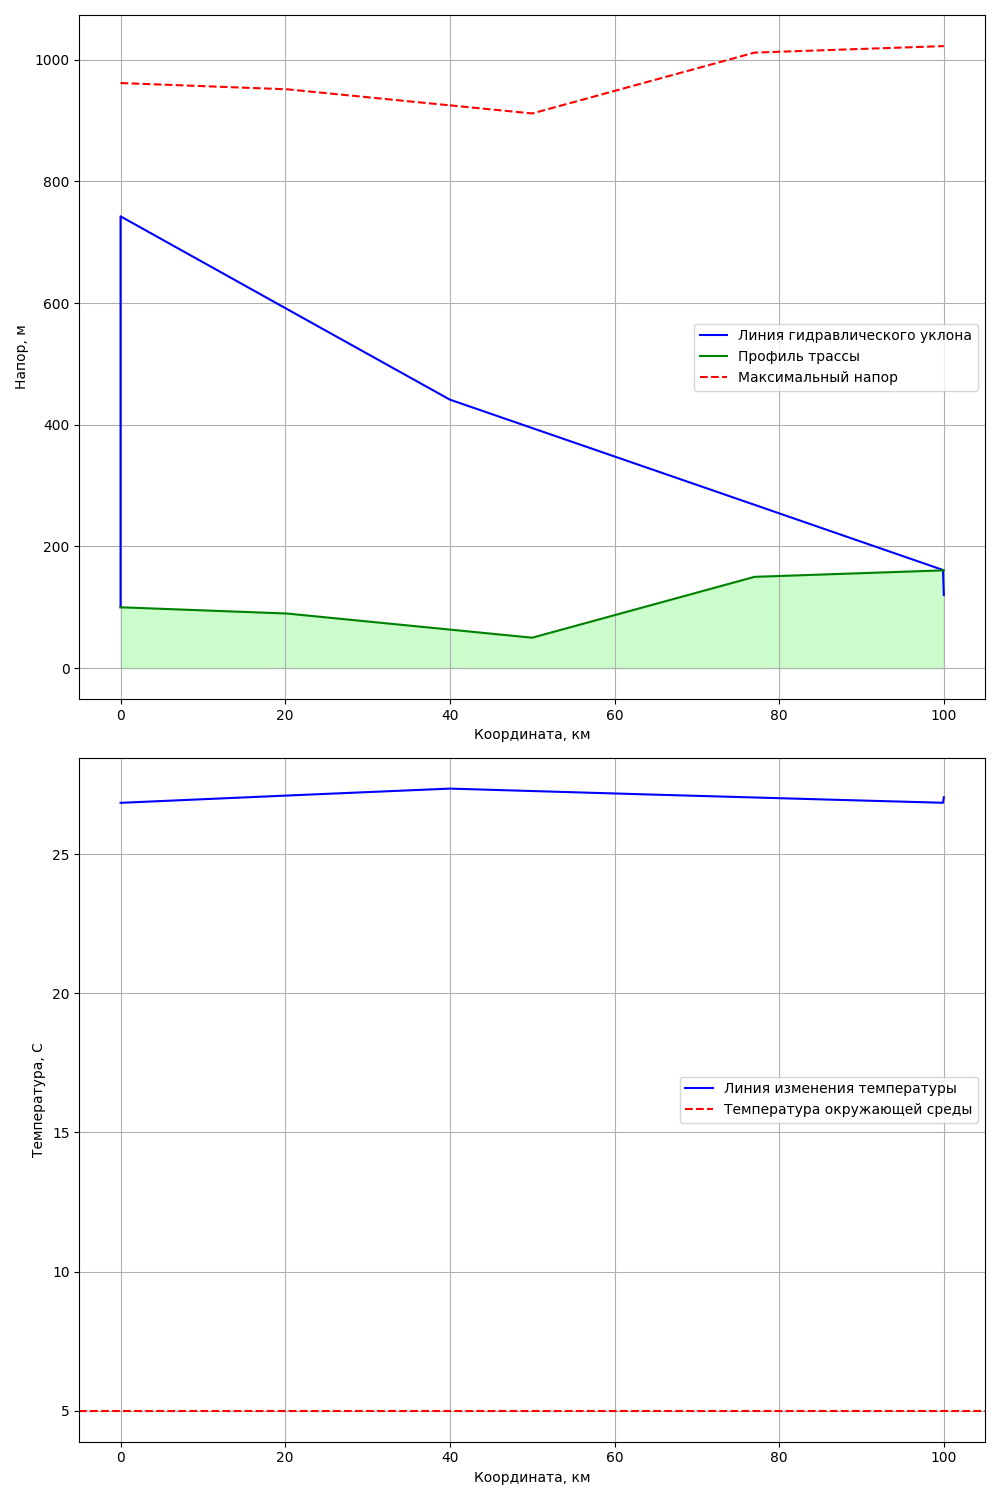
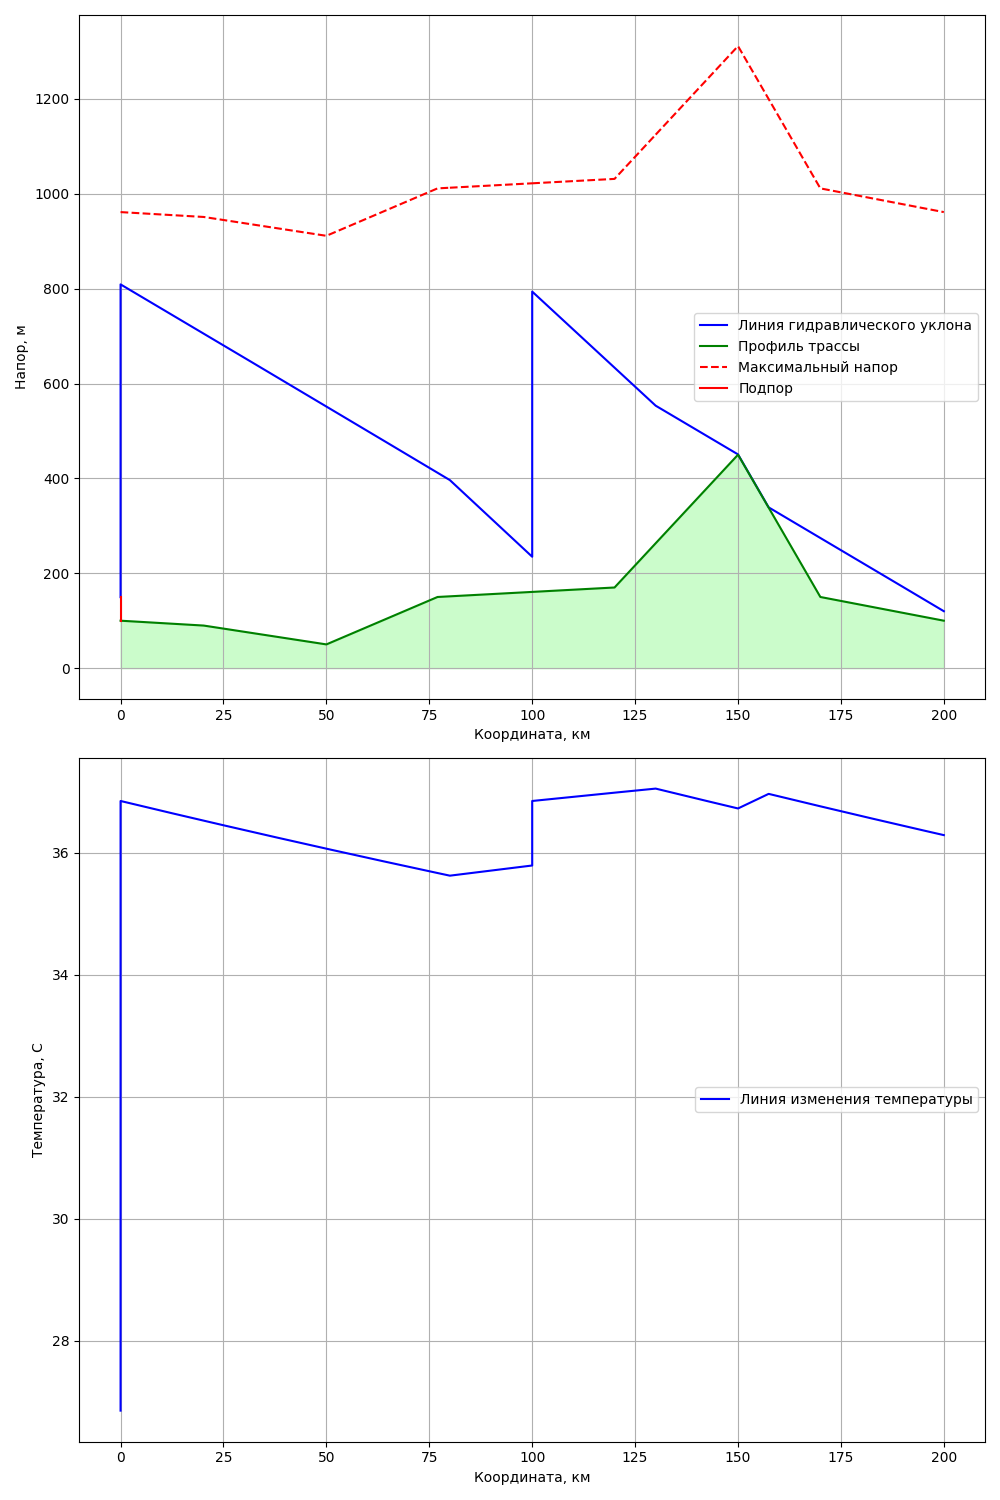
refactor

diff --git a/src/plotter.py b/src/plotter.py
@@ -18,7 +18,6 @@ class Plotter:
 
     def plot(self) -> plt.Figure:
         coordinate_data, head_data, elevation_data, temperature_data, head_max_data = self._get_plot_data()
-        head_data[0] = elevation_data[0]
         coordinate_data = np.array(coordinate_data) / 1e3
         temperature_data = np.array(temperature_data) - 273.15
 
@@ -29,6 +28,10 @@ class Plotter:
         axs[0].plot(coordinate_data, head_data, label='Линия гидравлического уклона', color='blue')
         axs[0].plot(coordinate_data, elevation_data, label='Профиль трассы', color='green')
         axs[0].plot(coordinate_data, head_max_data, label='Максимальный напор', color='red', linestyle='--')
+        axs[0].plot(
+            (coordinate_data[0], coordinate_data[0]),
+            (elevation_data[0], self._inlet_head),
+            label='Подпор', color='red')
         axs[0].legend(loc='right')
         axs[0].fill_between(coordinate_data, elevation_data, color='#98FB98', alpha=0.5)  # alpha задает прозрачность
 
@@ -37,8 +40,8 @@ class Plotter:
         axs[0].grid(True)
 
         axs[1].plot(coordinate_data, temperature_data, label='Линия изменения температуры', color='blue')
-        if self._temperature_env:
-            axs[1].axhline(y=self._temperature_env - 273.15, color='red', linestyle='--', label='Температура окружающей среды')
+        # if self._temperature_env:
+        #     axs[1].axhline(y=self._temperature_env - 273.15, color='red', linestyle='--', label='Температура окружающей среды')
         axs[1].legend(loc='right')
         axs[1].set_xlabel('Координата, км')
         axs[1].set_ylabel('Температура, С')

diff --git a/main.py b/main.py
@@ -9,10 +9,6 @@ from src.solver import Solver
 
 def main():
     interpolator = get_interpolator()
-    pipe1 = get_pipeline(interpolator, 0, 40e3)
-    pipe2 = get_pipeline(interpolator, 40e3, 100e3)
-    pump_station = get_pump_station(interpolator, 0)
-    hookup = get_hookup(interpolator, 40e3, -0.5)
     schema = SolverSchema(
         upper_border=20,
         lower_border=0,
@@ -20,7 +16,17 @@ def main():
         outlet_head=120,
         inlet_temperature=300,
     )
-    models = [pump_station, pipe1, hookup, pipe2]
+
+    models = [
+        get_pump_station(interpolator, 0),
+        get_pipeline(interpolator, 0, 80e3),
+        get_hookup(interpolator, 80e3, 0.5),
+        get_pipeline(interpolator, 80e3, 100e3),
+        get_pump_station(interpolator, 100e3),
+        get_pipeline(interpolator, 100e3, 130e3),
+        get_hookup(interpolator, 130e3, -0.5),
+        get_pipeline(interpolator, 130e3, 200e3),
+    ]
     solver = Solver(models, schema)
     solver.solve()
     plotter = Plotter(models, solver.inlet_head)
@@ -35,7 +41,7 @@ def get_interpolator():
                        (50e3, 50),
                        (77e3, 150),
                        (120e3, 170),
-                       (150e3, 300),
+                       (150e3, 450),
                        (170e3, 150),
                        (200e3, 100)])
     interpolator = Interpolator(points[:, 0], points[:, 1])
@@ -67,7 +73,7 @@ def get_pump_station(interpolator: Interpolator, coordinate: float):
         b=1.2519107926468433e-06,
         pump_number=3,
         min_inlet_head=40,
-        preset_outlet_temperature=300,
+        preset_outlet_temperature=310,
     )
     pump_station = PumpStation(schema, interpolator)
     return pump_station

diff --git a/src/models/pipeline.py b/src/models/pipeline.py
@@ -16,10 +16,12 @@ class Node():
         self.head: float | None = None
         self.temperature: float | None = None
         self.interpolator = interpolator
+        self.is_self_flow: bool = False
 
     @property
     def elevation(self) -> float:
         return self.interpolator(self.x)
+
 
 
 class Pipe():

diff --git a/src/solver.py b/src/solver.py
@@ -50,6 +50,8 @@ class Solver:
                 flow_rate -= model.hookup_flow_rate
 
             model_outlet_head = model.solve_inlet_head(flow_rate, model_outlet_head)
+            if model_outlet_head is None:
+                return None
         return model_outlet_head
 
     def _solve_thermal(self):
